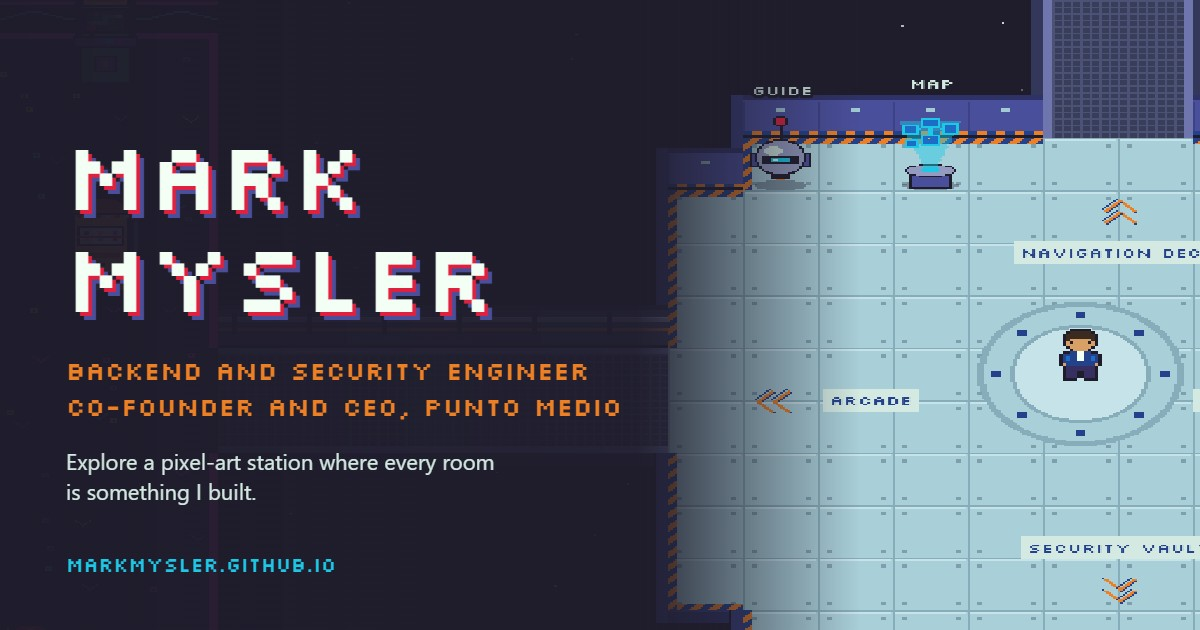
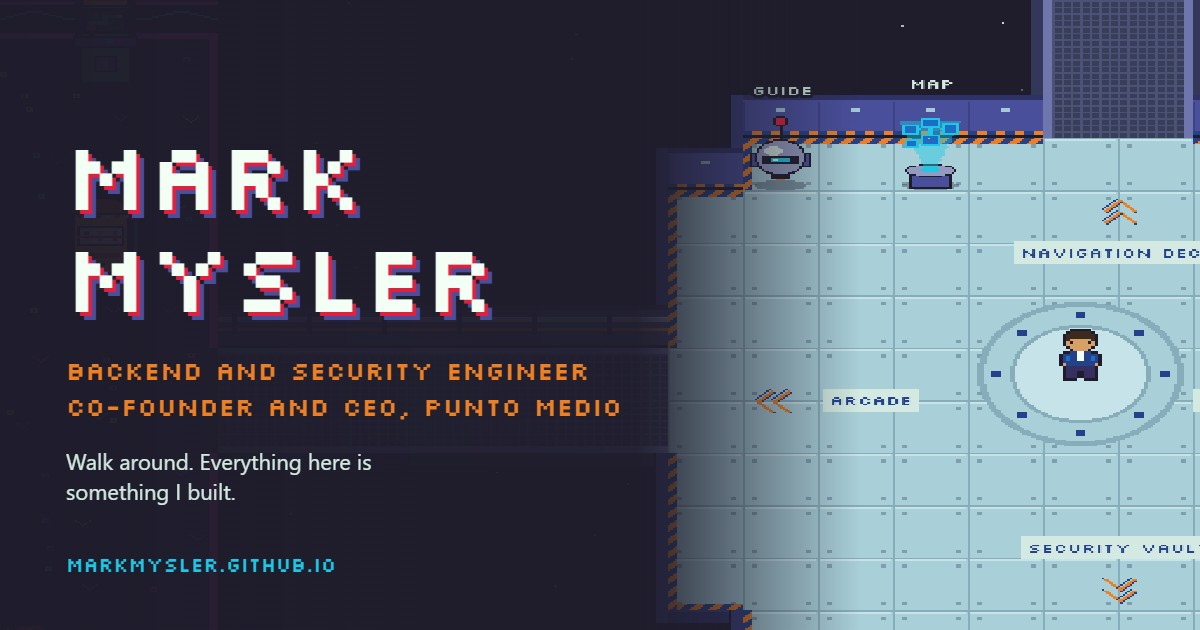
New start-screen tagline and a cleaner snake-ai tank
- Tagline: "Walk around. Everything here is something I built." /
  "Recorré la estación. Todo lo que hay acá lo construí yo." The link-preview
  image uses the same line.
- The snake-ai tank loses the glass glint, bubbles and gravel, gets a plaque
  for the score and a solid base, so no floor shows through.

Changed region(s): [[0.0617, 0.7238, 0.4317, 0.8143]]

diff --git a/src/game/props.ts b/src/game/props.ts
@@ -634,28 +634,21 @@ const PROPS: Record<string, [number, number, (ctx: Ctx) => void]> = {
     160,
     128,
     (ctx) => {
-      shadow(ctx, 80, 128, 74);
-      R(ctx, 10, 112, 6, 14, 'k');
-      R(ctx, 144, 112, 6, 14, 'k');
+      shadow(ctx, 80, 128, 76);
+      // Steel frame, dark glass, a plaque for the score and a solid cabinet base
       R(ctx, 4, 2, 152, 112, 'k');
       R(ctx, 6, 4, 148, 108, 'x');
-      R(ctx, 10, 8, 140, 100, 'J');
-      R(ctx, 12, 10, 136, 96, 'k');
-      // Gravel along the bottom of the glass
-      for (let x = 12; x < 148; x += 3) R(ctx, x, 104 - ((x * 7) % 3), 2, 2, (x * 3) % 2 ? 'T' : 'B');
-      R(ctx, 4, 2, 152, 5, 'l');
+      R(ctx, 4, 2, 152, 4, 'l');
       R(ctx, 4, 2, 152, 1, 'W');
-      for (const x of [8, 150]) for (const y of [5, 109]) R(ctx, x, y, 2, 2, 'W');
-      for (const [x, y, r] of [
-        [140, 30, 2],
-        [143, 20, 1.5],
-        [138, 12, 1],
-      ]) {
-        disc(ctx, x, y, r, r, 'c');
-      }
-      ctx.globalAlpha = 0.25;
-      line(ctx, 18, 92, 40, 14, 'w');
-      ctx.globalAlpha = 1;
+      R(ctx, 10, 8, 140, 94, 'J');
+      R(ctx, 12, 10, 136, 90, 'k');
+      R(ctx, 30, 103, 100, 9, 'n');
+      R(ctx, 30, 103, 100, 1, 'l');
+      for (const x of [8, 150]) for (const y of [6, 108]) R(ctx, x, y, 2, 2, 'W');
+      R(ctx, 2, 112, 156, 14, 'k');
+      R(ctx, 4, 113, 152, 11, 'n');
+      R(ctx, 4, 113, 152, 2, 'x');
+      R(ctx, 74, 117, 12, 4, 'k');
     },
   ],
   mat: [

diff --git a/index.html b/index.html
@@ -33,7 +33,7 @@
       <div class="title-card">
         <h1>Mark Mysler</h1>
         <p class="headline" data-t="headline">Backend &amp; security engineer · Co-founder &amp; CEO, Punto Medio</p>
-        <p class="tagline" data-t="tagline">A small station inside my head. Every room is something I built.</p>
+        <p class="tagline" data-t="tagline">Walk around. Everything here is something I built.</p>
         <div class="title-actions">
           <button id="enter" class="btn primary" type="button" data-t="enter">Enter the station</button>
           <a id="quick" class="btn" href="/quick/" data-t="quick">Quick view</a>

diff --git a/src/content/es.ts b/src/content/es.ts
@@ -11,7 +11,7 @@ export const es: Content = {
   headline: 'Ingeniero backend y de seguridad · Cofundador y CEO, Punto Medio',
   location: 'Buenos Aires, Argentina',
   title: {
-    tagline: 'Una pequeña estación dentro de mi cabeza. Cada sala es algo que construí.',
+    tagline: 'Recorré la estación. Todo lo que hay acá lo construí yo.',
     enter: 'Entrar a la estación',
     quick: 'Vista rápida',
     otherLang: 'English',

diff --git a/src/content/en.ts b/src/content/en.ts
@@ -11,7 +11,7 @@ export const en: Content = {
   headline: 'Backend & security engineer · Co-founder & CEO, Punto Medio',
   location: 'Buenos Aires, Argentina',
   title: {
-    tagline: 'A small station inside my head. Every room is something I built.',
+    tagline: 'Walk around. Everything here is something I built.',
     enter: 'Enter the station',
     quick: 'Quick view',
     otherLang: 'Español',
